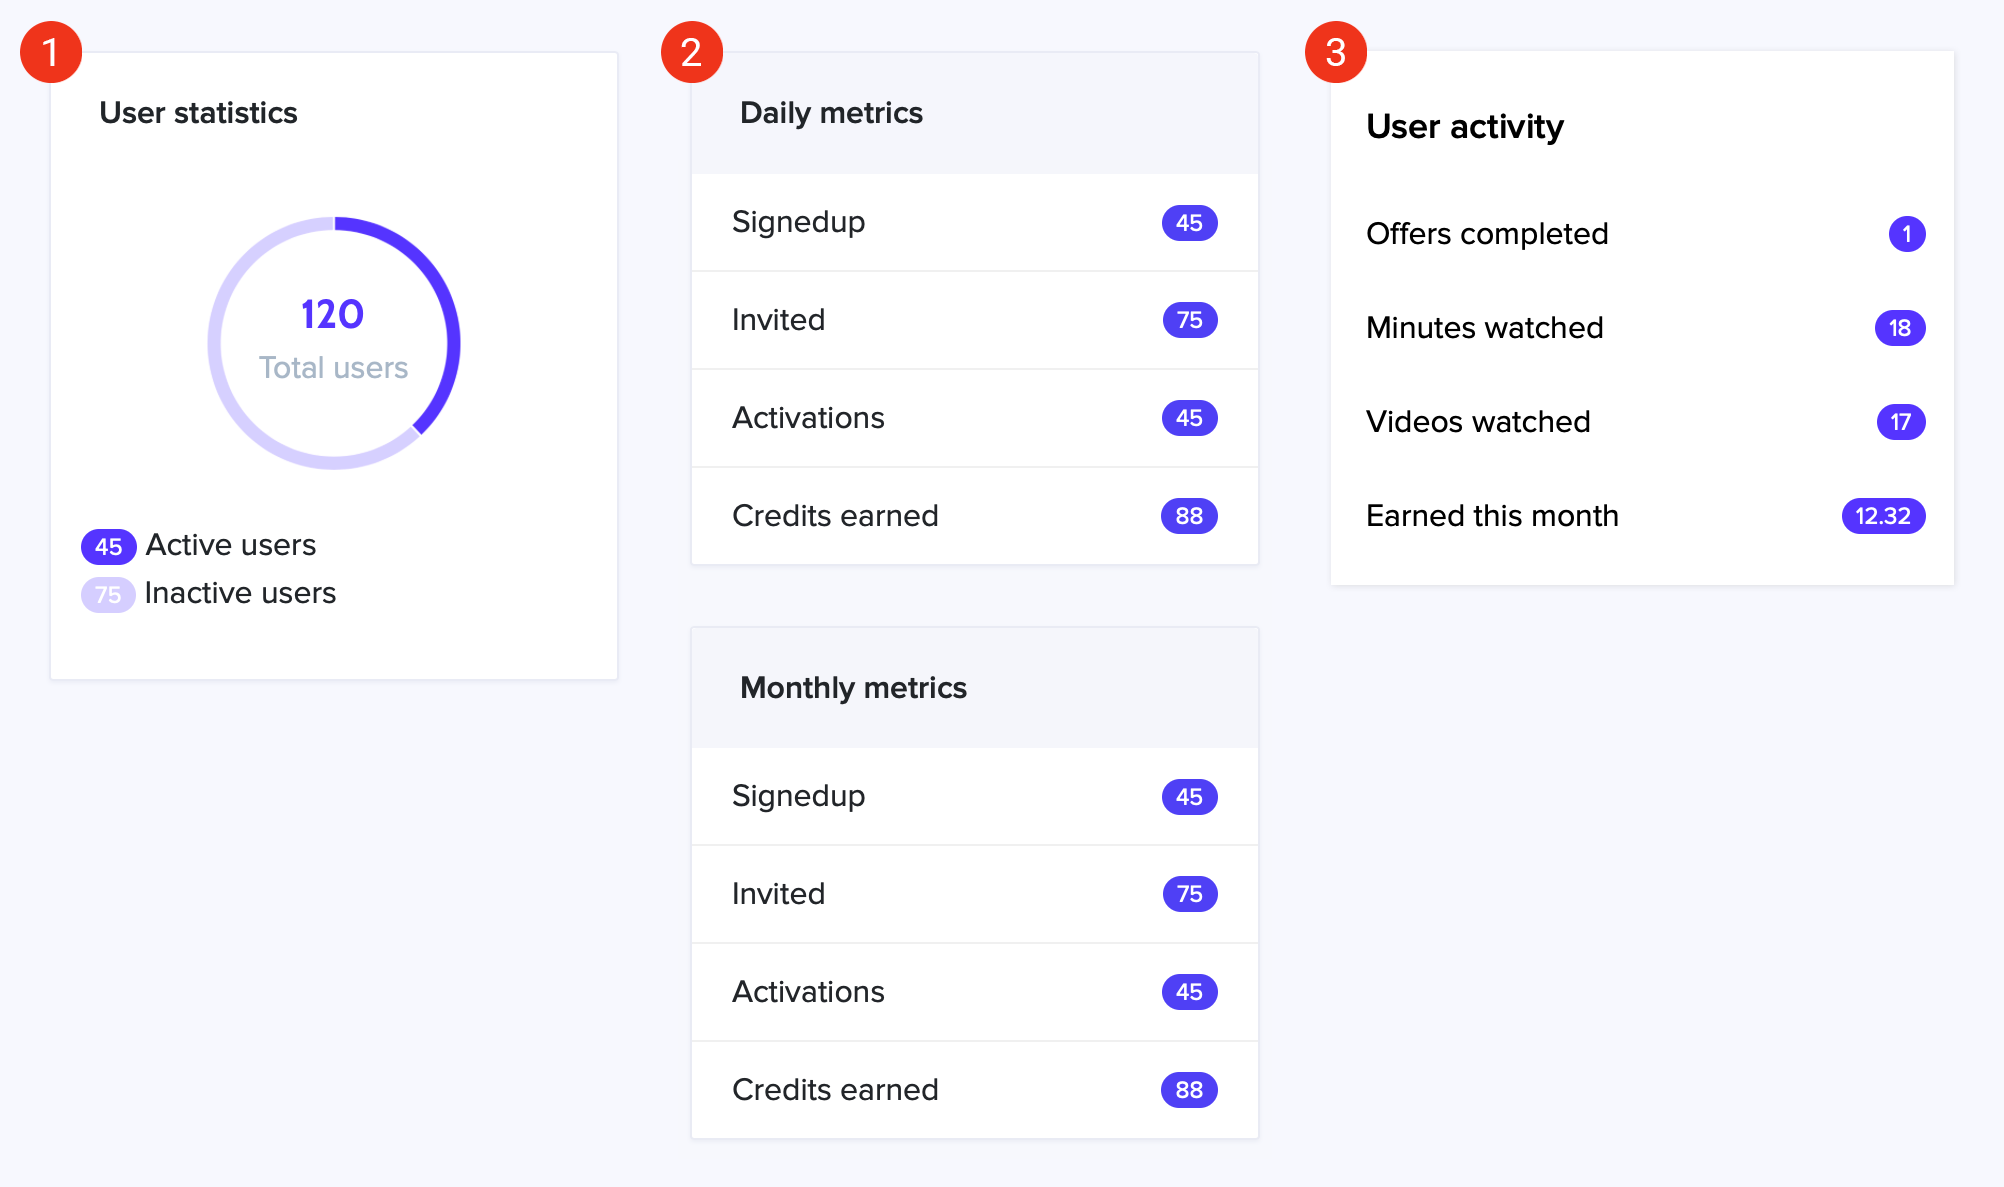
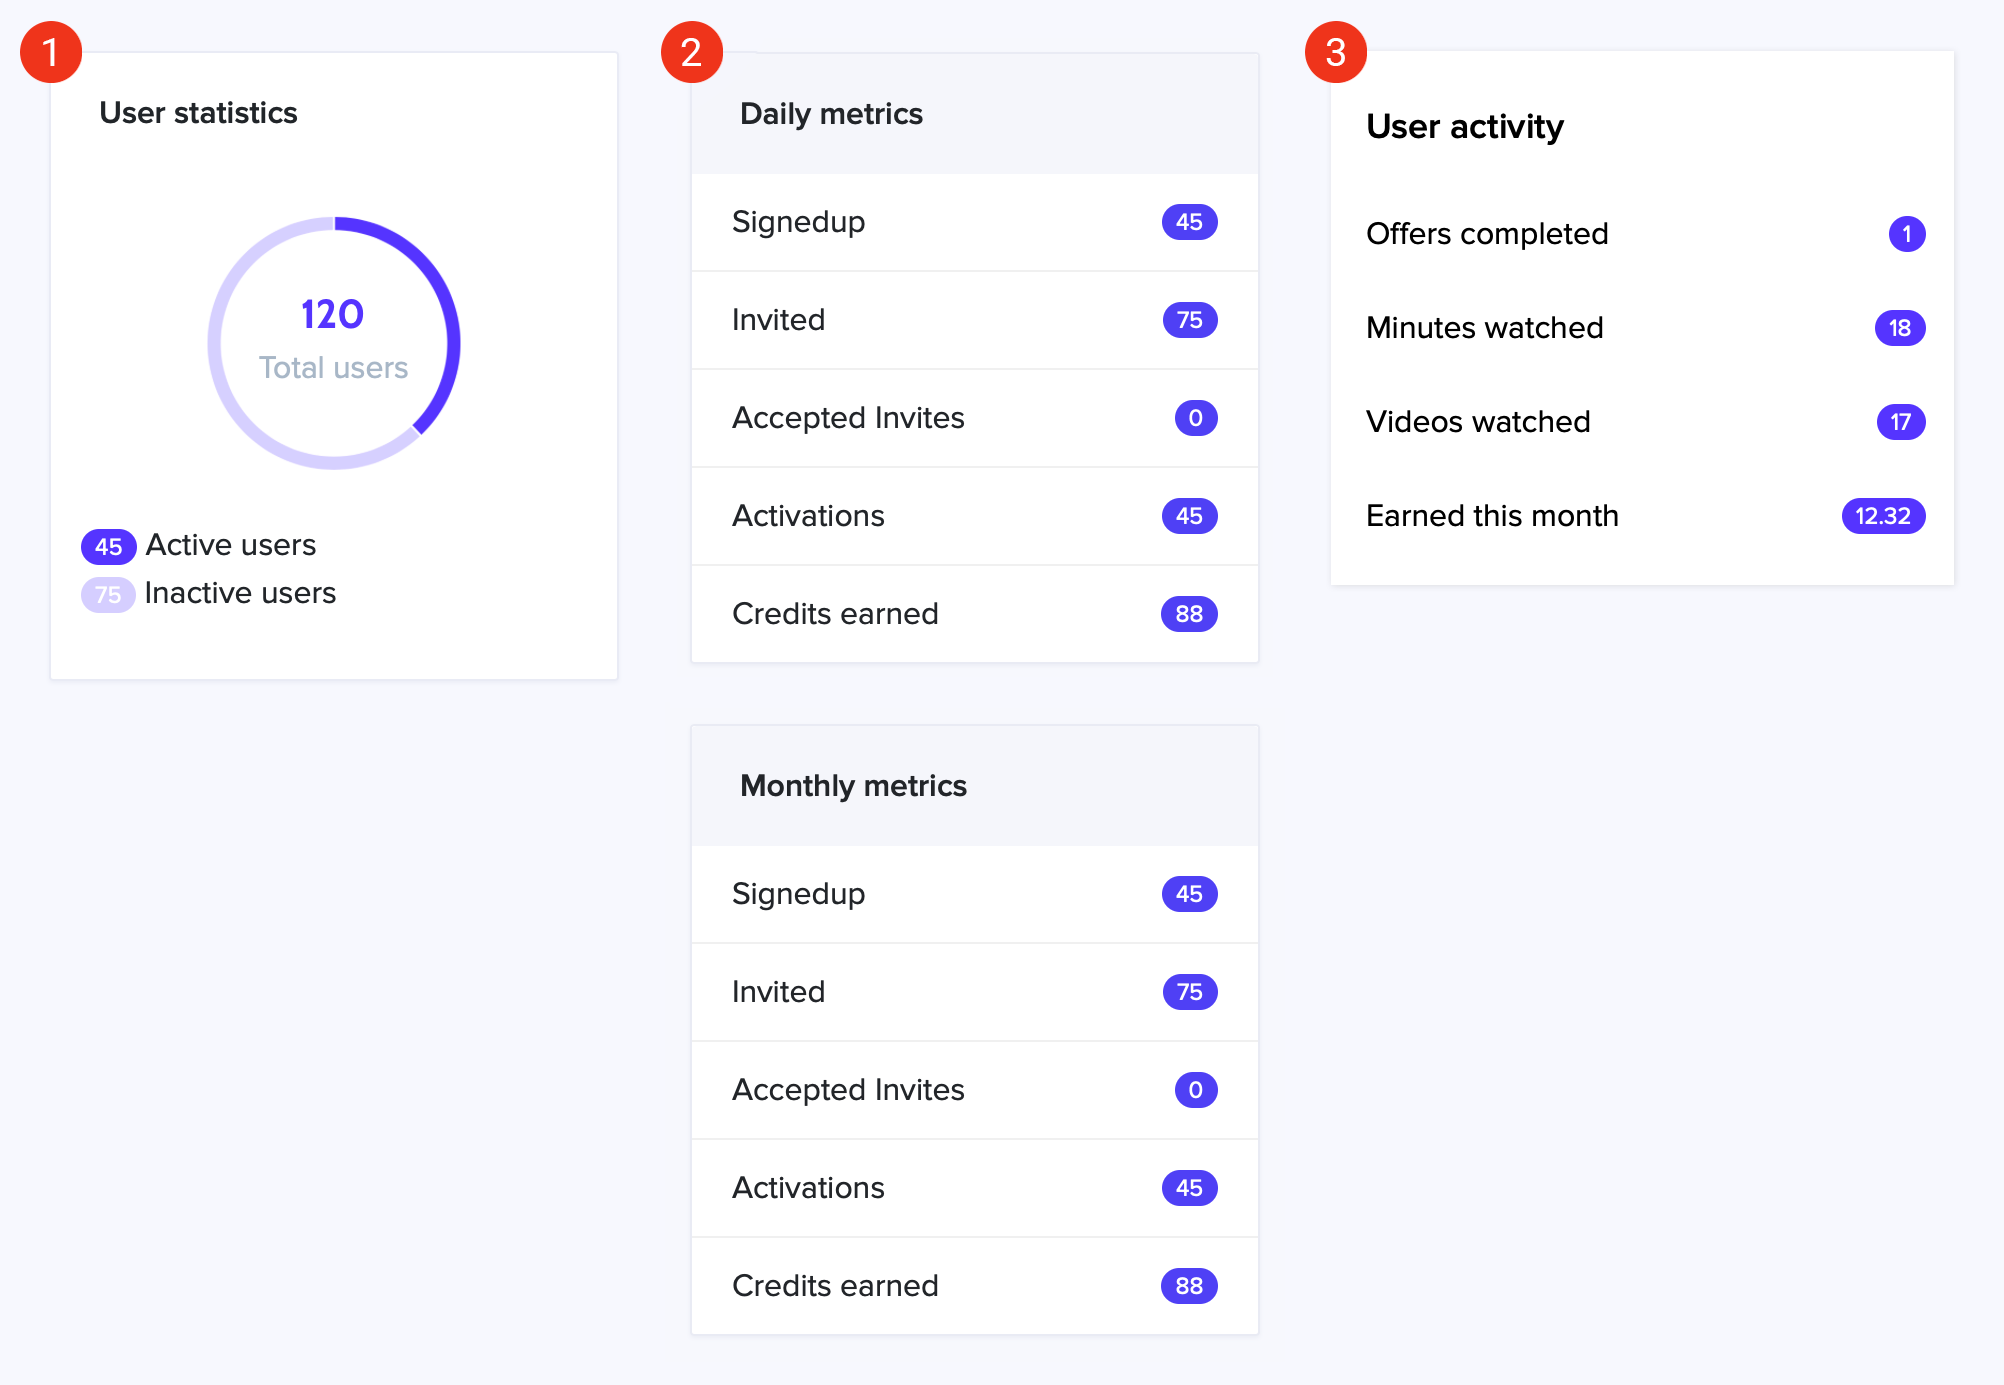
Accepted invites on User Library page

diff --git a/metrics.md b/metrics.md
@@ -12,7 +12,6 @@
   * [Activity](#customer-metrics)
 * **Additional Things**
   * [Products](#the-collision-of-products-with-ecommerce)
-  * [Videos](#soft-deletion-for-the-video-model)
 
 ## Dashboard - Home
 
@@ -107,7 +106,7 @@ ActiveCompanyUser(
 
 **Completed offers** come from the `offers_completed_count_for` method of `CreditsFlow` model, which counts the number of associated objects where `source` equivalent to `stripe` or `shopify`. Also, this method has a `period` option, which provides a period of dates for `created_at`.
 
-**Watched videos** come from the `company_videos_watched` method of `CreditsFlow` model, which counts the number of associated objects where `reference_id` grouped by `company.videos.with_deleted.map(&:id)` and has `from` and `to` options, which provides a period of dates for `created_at`.
+**Watched videos** come from the `company_videos_watched` method of `CreditsFlow` model, which counts the number of associated objects where `reference_id` grouped by `company.videos.map(&:id)` and has `from` and `to` options, which provides a period of dates for `created_at`.
 
 **The mold of** `CreditsFlow`:
 
@@ -256,18 +255,20 @@ Repeats the logic of the [this month](#1-this-month) section on the pool page, b
 
 ### 2. Daily and monthly metrics
 
-**Description:** The first three lines of this sections are about customer growth and contain signed up, invated and activation indicators during the current day or calendar month. The last line it's credit earnings from social and products activity during the same periods.
+**Description:** The first four lines of this sections are about customer growth and contain following indicators: signedup, invited, accepted invites and activations during the current day or calendar month. The last line it's credit earnings from social and products activity during the same periods.
 
 **Logic:** Uses `customers_without_owners` method of `User` model to get the number of customers, then applies the following scopes to clarify data:
 
 * **Daily metrics**
   * Signedup: `customers_today` where `source` is `'registration'`
   * Invited: `customers_today` where `source` is `'invite'`
-  * Activations: `active_today`
+  * Accepted Invites: `accepted_today` where `accepted_invite` is `true`
+  * Activations: `active_today` where `paypal_added_at` is today
 * **Monthly metrics**
   * Signedup: `customers_this_month` where `source` is `'registration'`
   * Invited: `customers_this_month` where `source` is `'invite'`
-  * Activations: `active_this_month`
+  * Accepted Invites: `accepted_this_month` where `accepted_invite` is `true`
+  * Activations: `active_this_month` where `paypal_added_at` during the current month
 
 **\*** The logic of these scopes is described in the [daily activity](#2-daily-activity) section of the home page.
 
@@ -279,18 +280,16 @@ Repeats the logic of the [this month](#1-this-month) section on the pool page, b
 
 **Logic:** These metrics go to the front side through the `Api::UserLibraryController`, which combine  the following methods:
 
-* **Offers completed** come from the `offers_completed_count_for` method of `CreditsFlow` model with `all_time` period, more details in the [completed offers](#1-this-month) section of the pool page
+* **Offers completed** come from the `offers_completed_count_for` method of `CreditsFlow` model with `all_time` period, more details in the [completed offers](#1-this-month) section of the pool page.
 
-* **Minutes watched** come from the `user_minutes_watched` method of `CreditsFlow` model, which uses `user_social`**\*** scope and returns the sum of the `amount`**\*\***
-* **Videos watched** come from the `user_videos_watched_count` method of `CreditsFlow` model, also uses scope `user_social` then grouping result by `reference_id`**\*\*** and returns a count of unique objects
+* **Minutes watched** come from the `user_minutes_watched` method of `CreditsFlow` model, which uses `user_social`**\*** scope and returns the sum of the `amount`
+* **Videos watched** come from the `user_videos_watched_count` method of `CreditsFlow` model, also uses scope `user_social` then grouping result by `reference_id` and returns a count of unique objects
 
-* **Earned this month** come from the `balance_in_credits` of `User` model, which return last `balance` of `UserBalance` model within a current pool period (`month_start` and `month_end`)**\*\*\***
+* **Earned this month** come from the `balance_in_credits` of `User` model, which return last `balance` of `UserBalance` model within a current pool period (`month_start` and `month_end`)**\*\***.
 
 **\*** `CreditsFlow` objects where `source` equivalent to `youtube`, `facebook` or `vimeo`.
 
-**\*\*** The references, in this case, is all company videos, including deleted: `company.videos.with_deleted.map(&:id)`. You can also find more info about soft deletion in [this section](#soft-deletion-for-the-video-model).
-
-**\*\*\*** To fetching current pool period, uses `period_date_start` and `period_date_end` methods of the `PoolService`.
+**\*\*** To fetching current pool period, uses `period_date_start` and `period_date_end` methods of the `PoolService`.
 
 **The mold of** `UserBalance`:
 
@@ -482,29 +481,4 @@ But over time, it was decided to leave this concept and use "Products" (the reas
 
 > For example, `Company` model has an argument `package_subscribed` where value is `'ecommerce'`, but for the front side, it means “Products” subscription.
 
-**The main thing:** any mentions about "Products" or "Product offers" of the site, on the code side will be called "ecommerce", and vice versa.
-
-### Soft deletion for the Video model
-
-**Problem:** Disconnect a social account, such as Youtube or Vimeo, will entail deleting the related `Video` objects. The result will be the loss of information about watched minutes/videos for some application metrics (you can find details in [this card](https://trello.com/c/2FDOEYo2)). In order to avoid this situation, we use the `'paranoia'` gem, which provides a soft deletion for `Video` objects.
-
-Here is some information about how it works:
-
-```ruby
-# If you want to scope all videos, including deleted:
-Video.with_deleted
-
-# If you want to scope only deleted videos:
-Video.only_deleted
-
-# If you want to restore a video:
-Video.restore(_id_)
-
-# If you want to delete a video truly:
-video.really_destroy!
-
-# If you want more information about how it works:
-# https://github.com/rubysherpas/paranoia
-```
-
-**The main thing:** when you work with metrics of social activity, you may need to take into account deleted videos through `with_deleted` scoping. For example, if it happening during the open pool period.
+**The main thing** you need to understand: any mentions about "Products" or "Product offers" of the site, on the code side will be called "ecommerce", and vice versa.
